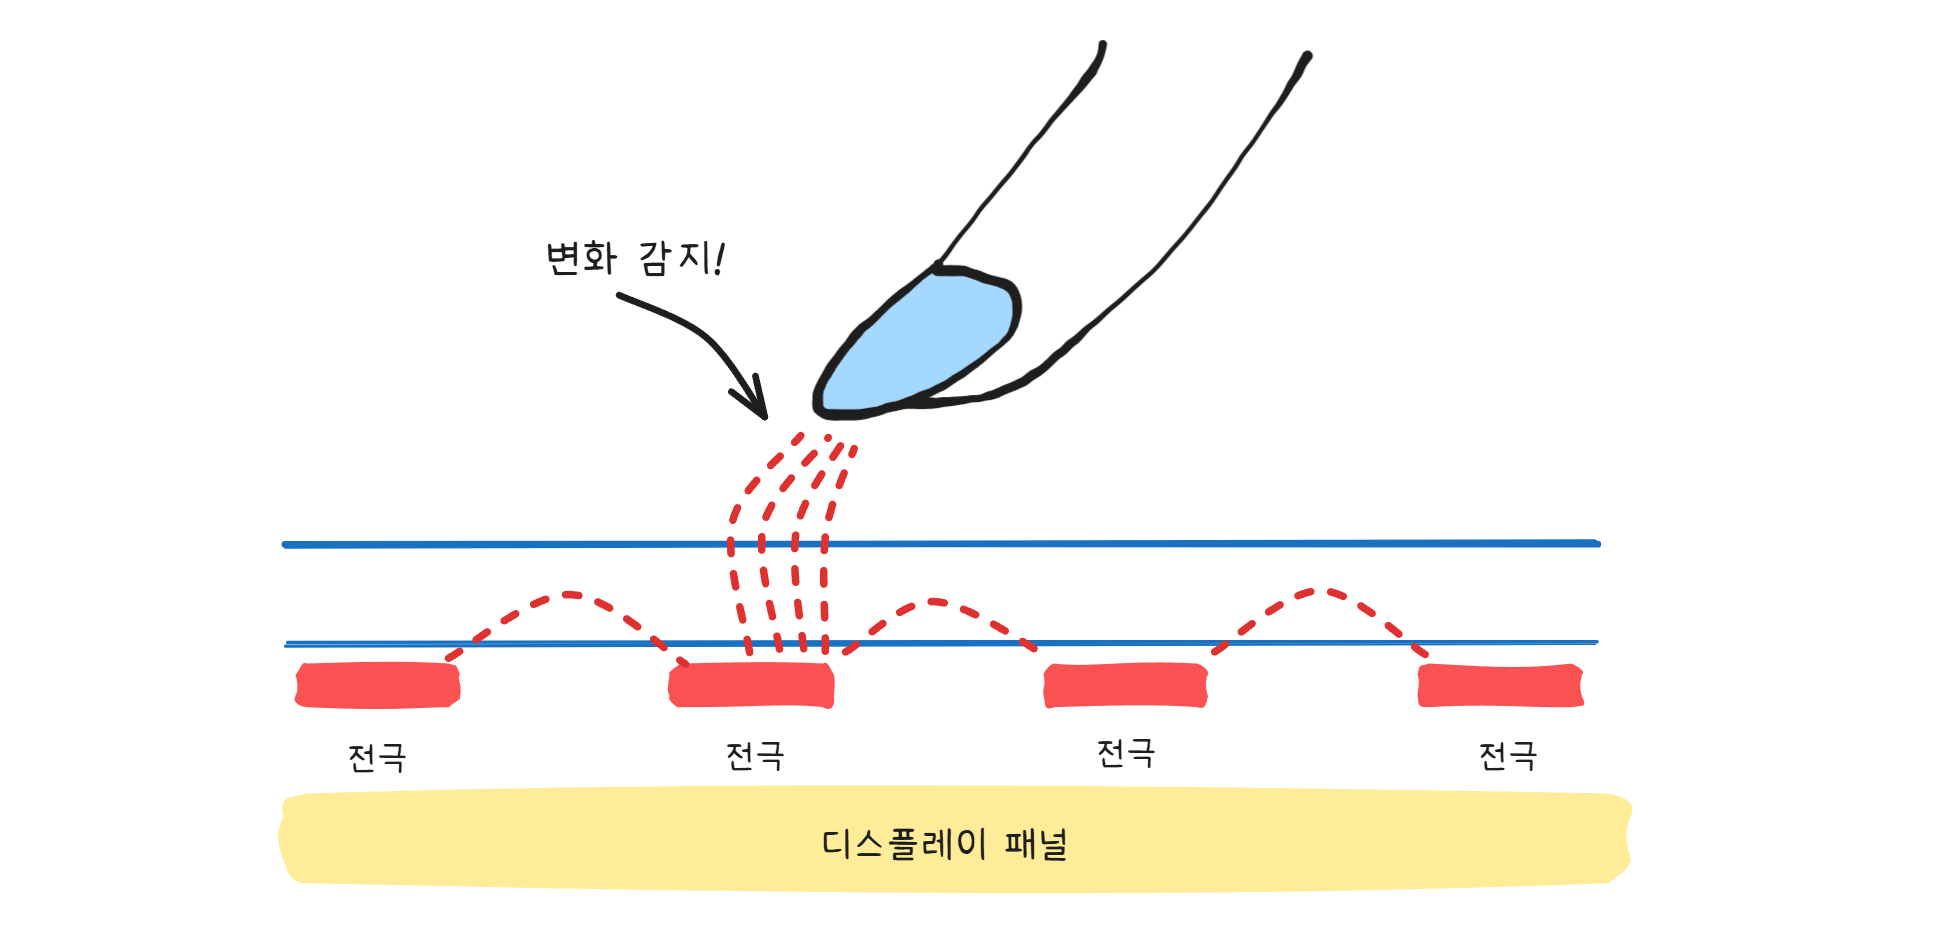
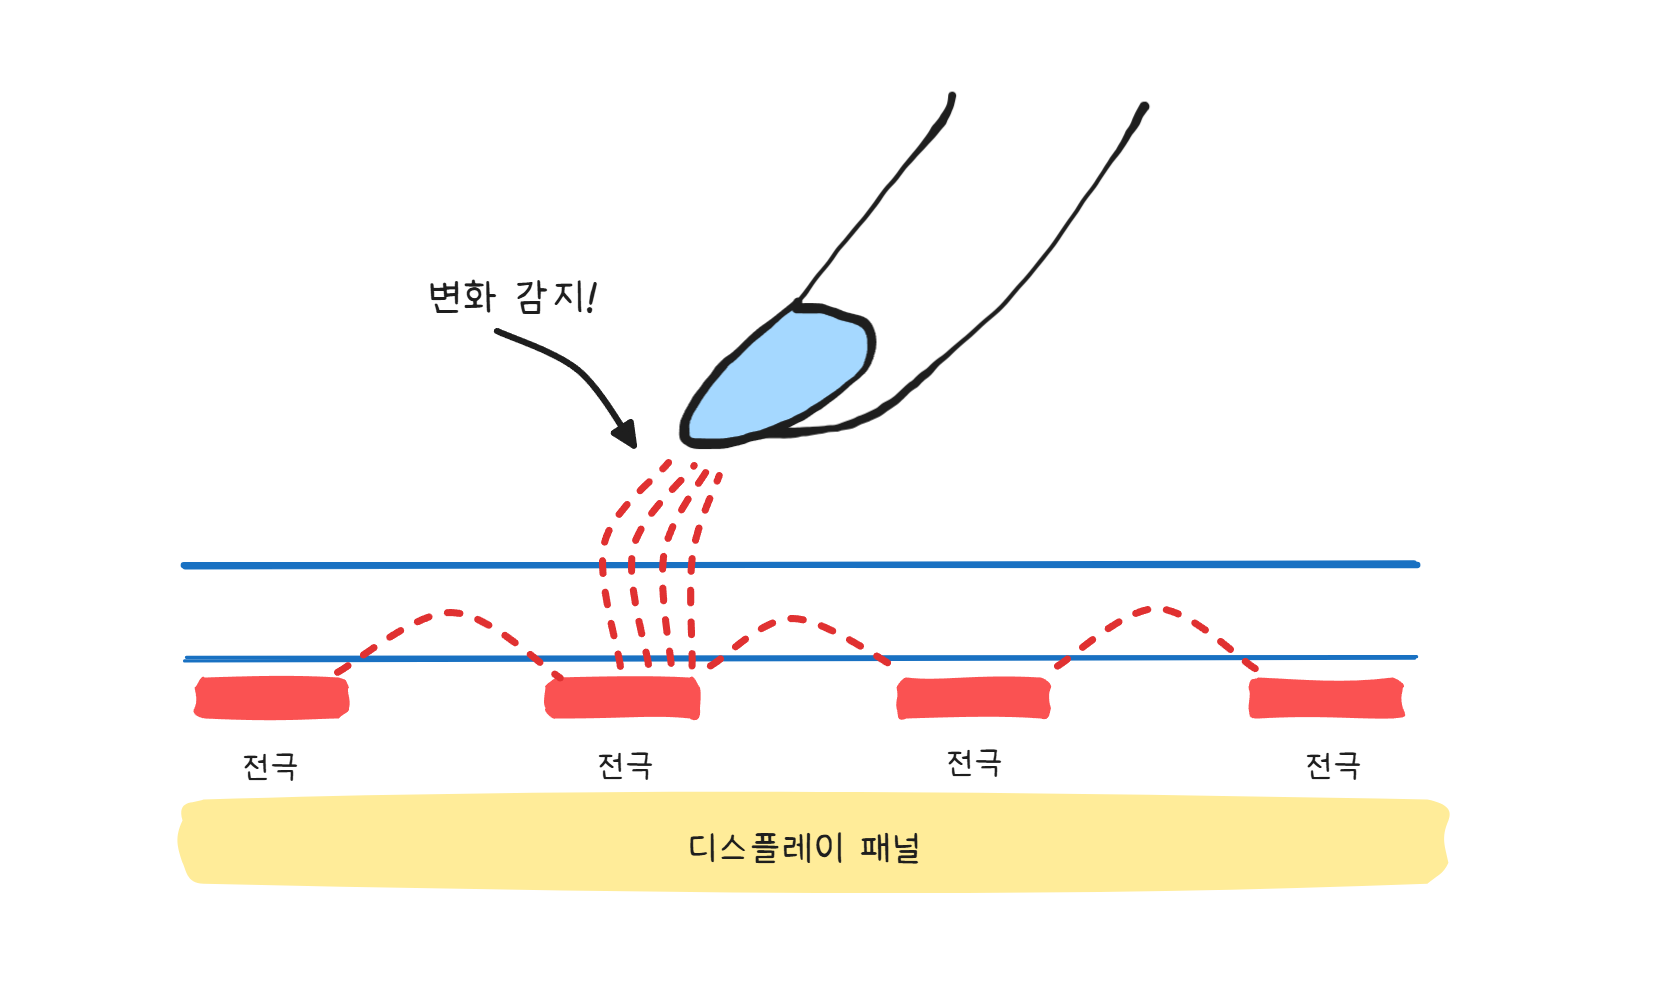
[edit] ch02: 그림 2-3~2-5 일러스트 이미지 삽입 + ch01 이미지 수정 반영
- ch02: 그림 2-3(RAM/저장장치), 2-4(유닉스 시간), 2-5(2038년 문제) ASCII→이미지 교체
- ch01: 그림 1-1, 1-2 수정된 일러스트 이미지 반영
- 오타 파일명 삭제 (iamge_2-3.png → image_2-3.png)

Changed region(s): [[0.0921, 0.031, 0.8899, 0.9615]]

diff --git a/src/part1/ch02.md b/src/part1/ch02.md
@@ -69,26 +69,10 @@ CPU가 일하는 속도를 이해했으니, 이번에는 **공간** 이야기입
 
 스마트폰에서 **RAM**이 책상이고, **저장장치(SSD/Flash)** 가 서랍장입니다.
 
-[그림 2-3] RAM과 저장장치의 구조
-```
-┌──────────────────────────────────────────┐
-│                 책상 (RAM)                │
-│                                          │
-│  ┌──────┐  ┌──────┐  ┌──────┐            │
-│  │ 배달앱 │  │ 카톡  │  │ 음악앱│            │
-│  │(실행중)│  │(대기) │  │(재생) │            │
-│  └──────┘  └──────┘  └──────┘            │
-│                                          │
-│  ← 공간이 부족하면 하나를 치워야 함 →       │
-└──────────────────────────────────────────┘
-                    ↕ 꺼내기 / 넣기
-┌──────────────────────────────────────────┐
-│              서랍장 (저장장치)              │
-│                                          │
-│  사진, 동영상, 설치된 앱 수백 개...         │
-│  용량은 크지만, 꺼내는 데 시간이 걸림       │
-└──────────────────────────────────────────┘
-```
+<figure>
+  <img src="../images/image_2-3.png" alt="RAM과 저장장치의 구조">
+  <figcaption>[그림 2-3] RAM과 저장장치의 구조</figcaption>
+</figure>
 
 앱을 여는 것은 서랍에서 교재를 꺼내 책상 위에 올리는 것과 같습니다. 앱이 RAM에 올라와야 CPU가 처리할 수 있습니다.
 
@@ -156,13 +140,10 @@ CPU가 일하는 속도를 이해했으니, 이번에는 **공간** 이야기입
 
 컴퓨터는 시간을 숫자로 저장합니다. **1970년 1월 1일 자정**을 기준점으로 삼고, 그 이후 흐른 초(秒) 수를 세는 방식입니다. 이걸 **유닉스 시간(Unix Epoch)** 이라고 합니다.
 
-[그림 2-4] 유닉스 시간 변환
-```
-1970년 1월 1일 00:00:00  →  0
-1970년 1월 1일 00:00:01  →  1
-1970년 1월 2일 00:00:00  →  86,400
-2026년 2월 14일           →  약 1,771,027,200
-```
+<figure>
+  <img src="../images/image_2-4.png" alt="유닉스 시간 변환">
+  <figcaption>[그림 2-4] 유닉스 시간 변환</figcaption>
+</figure>
 
 날짜를 1970년 1월 1일로 설정하면 이 값이 0이 됩니다. 문제는 시간대(타임존) 보정 과정에서 이 값이 0 아래로 — 음수로 — 내려갈 수 있다는 것입니다. 한국은 UTC+9이므로, 1970년 1월 1일 0시(한국 시각)는 유닉스 시간으로 -32,400이 됩니다. 시스템이 이 음수를 처리하지 못하면서 계산이 폭주한 것입니다.
 
@@ -174,12 +155,10 @@ CPU가 일하는 속도를 이해했으니, 이번에는 **공간** 이야기입
 
 이 시점을 넘어가면? 숫자가 넘쳐서(오버플로) 음수가 됩니다. 컴퓨터가 갑자기 1901년 12월 13일로 되돌아간 것으로 인식할 수 있습니다.[^2]
 
-[그림 2-5] 2038년 문제 — 32비트 오버플로
-```
-2038년 1월 19일 03:14:07  →  2,147,483,647 (32비트 최대)
-2038년 1월 19일 03:14:08  →  -2,147,483,648 (오버플로!)
-                              → 1901년 12월 13일로 해석
-```
+<figure>
+  <img src="../images/image_2-5.png" alt="2038년 문제 — 32비트 오버플로">
+  <figcaption>[그림 2-5] 2038년 문제 — 32비트 오버플로</figcaption>
+</figure>
 
 2000년을 앞두고 전 세계가 공포에 떨었던 **Y2K 문제**의 후속편입니다. Y2K는 연도를 두 자리로 저장해서 생긴 문제였고, 2038년 문제는 시간을 32비트로 저장해서 생기는 문제입니다. 대부분의 현대 시스템은 이미 64비트로 전환했지만, 오래된 임베디드 시스템[^3] — ATM, 산업용 장비, 자동차 ECU[^4] — 중에는 아직 32비트를 쓰는 것들이 남아 있습니다.
 
